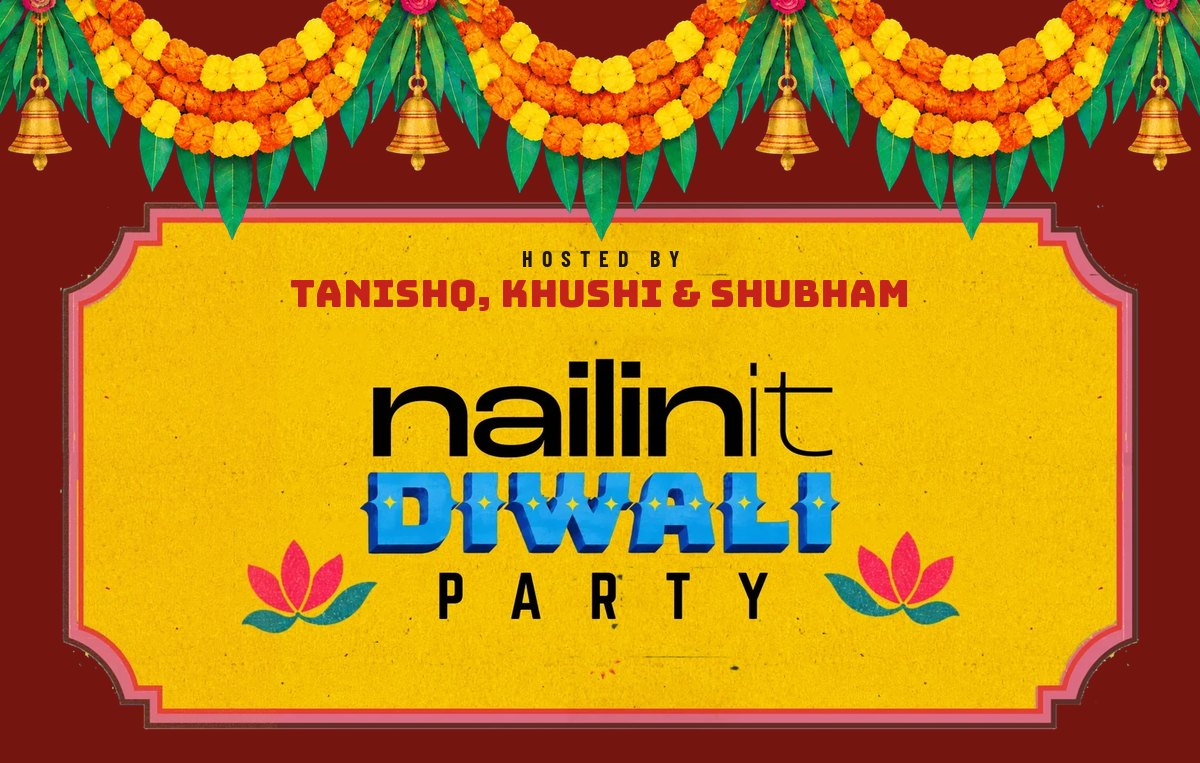
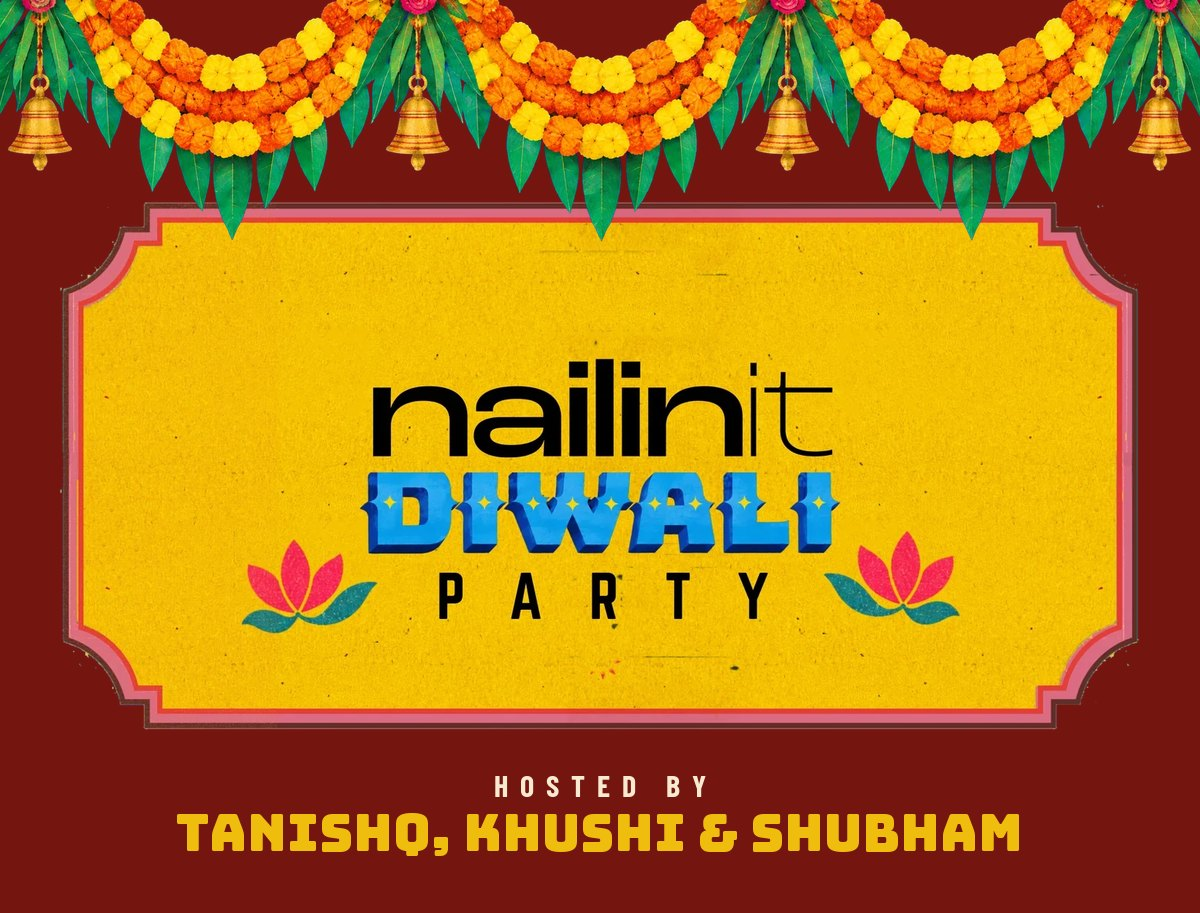
diwali: host links (?h=), party hosted-by under the ticket, email in site fonts + edge-to-edge, Pages cache headers

diff --git a/diwali/app.js b/diwali/app.js
@@ -23,6 +23,8 @@ const qs = new URLSearchParams(location.search);
 // ?to=Riya&k=<check>                                     → older links, still honoured
 const nice = v => String(v || '').trim().replace(/\s+/g, ' ').slice(0, 32).replace(/(^|\s)(\p{Ll})/gu, (m, a, b) => a + b.toUpperCase());
 const INV = (qs.get('inv') || '').trim();
+// ?h=tanishq → which host's link this is; remembered so later visits still count for them
+const HOST = (() => { const h = (qs.get('h') || '').toLowerCase().replace(/[^a-z]/g, '').slice(0, 20); if (h) store.set('mkd:h', h); return h || store.get('mkd:h') || ''; })();
 const KEY = (INV ? INV.slice(0, 5) : (qs.get('k') || '')).trim().toLowerCase();
 const SEALED = INV.length > 5 ? INV.slice(5) : '';
 let NAME = nice(qs.get('name') || qs.get('to'));            // full name: used for tracking / sheet rows
@@ -121,8 +123,10 @@ function layout() {
 
   // the AAO poster: starts inside the envelope, grows into the hero
   C2.w = EB.w * .86; C2.h = C2.w / POSTER_AR;
-  C2.fh = Math.min(vh * .5, (vw * .94) / POSTER_AR, 460); C2.fs = C2.fh / C2.h;
-  C2.fy = clamp(vh * .45, C2.fh / 2 + 84, vh - C2.fh / 2 - 120);
+  // party.nailin.it adds a "hosted by" line under the welcome, so its ticket sits a little smaller and higher
+  const host = window.SITE === 'party';
+  C2.fh = Math.min(vh * (host ? .44 : .5), (vw * .94) / POSTER_AR, 460); C2.fs = C2.fh / C2.h;
+  C2.fy = clamp(vh * (host ? .39 : .45), C2.fh / 2 + 80, vh - C2.fh / 2 - (host ? 215 : 120));
   css(card, '--cw', C2.w + 'px'); css(card, '--ch', C2.h + 'px');
   css(nameEl, '--ny', (C2.fy + C2.fh / 2 + 20) + 'px');
 
@@ -632,7 +636,7 @@ function track(event, extra = {}) {
   if (event === 'play' || event === 'wall') post(R.gamesForm, R.gamesFields, { ...who, type: event === 'wall' ? 'pinned to wall' : 'played',
     game: ({ tota: 'tota jyotish', gubbara: 'balloon shoot', chhalla: 'ring toss', draw: 'lucky draw' })[extra.rsvp] || extra.rsvp || '', result: extra.link || '', details: extra.device || '' });
   // our own database (admin dashboard + wall): plain-text beacon, no CORS preflight
-  const api = { event, name: NAME || '', rsvp: event === 'rsvp' ? extra.rsvp : '',
+  const api = { event, h: HOST, name: NAME || '', rsvp: event === 'rsvp' ? extra.rsvp : '',
     game: (event === 'wall' || event === 'play') ? extra.rsvp : '', title: extra.link || '', text: extra.device || '' };
   try { const b = new Blob([JSON.stringify(api)], { type: 'text/plain' }); navigator.sendBeacon ? navigator.sendBeacon(API_BASE + '/api/track', b) : fetch(API_BASE + '/api/track', { method: 'POST', body: b, keepalive: true }); } catch (e) {}
 }
@@ -677,7 +681,7 @@ rsvpForm.addEventListener('submit', async e => {
   if (err) { $('#apErr').textContent = err; buzz(20); return; }
   const btn = $('#apSend'); btn.disabled = true; btn.textContent = 'sending…'; $('#apErr').textContent = '';
   try {
-    const r = await fetch(API_BASE + '/api/apply', { method: 'POST', body: JSON.stringify({ name, phone, email }) });
+    const r = await fetch(API_BASE + '/api/apply', { method: 'POST', body: JSON.stringify({ name, phone, email, h: HOST }) });
     const d = await r.json();
     if (!d.ok) throw new Error(d.error || 'x');
     store.set(RKEY, d.status); store.set(RKEY + ':email', email); store.set(RKEY + ':phone', phone);

diff --git a/diwali/index.html b/diwali/index.html
@@ -22,7 +22,7 @@ window.CARD = SITE === 'party' ? 'assets/invite_card_host.webp' : 'assets/invite
 <link rel="preconnect" href="https://fonts.googleapis.com">
 <link rel="preconnect" href="https://fonts.gstatic.com" crossorigin>
 <link href="https://fonts.googleapis.com/css2?family=Bakbak+One&family=Bungee&family=Teko:wght@400;500;600&family=Barlow:wght@500;600;700&family=Barlow+Condensed:wght@500;600;700&family=Palanquin+Dark:wght@400;600;700&display=swap" rel="stylesheet">
-<link rel="stylesheet" href="style.css?v=1792958534">
+<link rel="stylesheet" href="style.css?v=1792998844">
 <style>
 /* loader: inline so it paints before anything else arrives */
 #ldr { position: fixed; inset: 0; z-index: 100; display: grid; place-items: center; background: radial-gradient(90% 70% at 50% 45%, #3a0a06 0%, #1a0503 70%, #0e0302 100%); color: #f7e6c8; transition: opacity .6s ease, visibility 0s linear .6s; }
@@ -90,8 +90,8 @@ window.CARD = SITE === 'party' ? 'assets/invite_card_host.webp' : 'assets/invite
 
 
     <!-- the invite inside the envelope: the deck's AAO poster -->
-    <div id="card" class="card" aria-hidden="true"><img id="cardImg" alt="DOT presents nailinit Diwali Party"><script>document.getElementById('cardImg').src = CARD; if (SITE === 'party') document.getElementById('cardImg').alt = 'nailinit Diwali Party, hosted by Tanishq, Khushi and Shubham';</script><span class="card-pb card-host" aria-hidden="true">hosted by<b>Tanishq, Khushi &amp; Shubham</b></span><i class="card-foil f-gold"></i><i class="card-foil f-blue"></i><i class="card-foil f-ink"></i><i class="card-sheen"></i></div>
-    <div id="cardname" class="cardname"><span class="foil" data-name>dost</span>... swagat <small>(with swag)</small></div>
+    <div id="card" class="card" aria-hidden="true"><img id="cardImg" alt="DOT presents nailinit Diwali Party"><script>document.getElementById('cardImg').src = CARD; if (SITE === 'party') document.getElementById('cardImg').alt = 'nailinit Diwali Party, hosted by Tanishq, Khushi and Shubham';</script><i class="card-foil f-gold"></i><i class="card-foil f-blue"></i><i class="card-foil f-ink"></i><i class="card-sheen"></i></div>
+    <div id="cardname" class="cardname"><span class="foil" data-name>dost</span>... swagat <small>(with swag)</small><em class="host-line">hosted by <b>Tanishq, Khushi &amp; Shubham</b></em></div>
 
     <canvas id="env" aria-label="Your envelope"></canvas>
 
@@ -320,9 +320,9 @@ window.CARD = SITE === 'party' ? 'assets/invite_card_host.webp' : 'assets/invite
   <button class="mx-pill" id="mxPlay" type="button" aria-label="Pause music"><span class="mx-eq" aria-hidden="true"><i></i><i></i><i></i><i></i></span><b id="mxTitle">mohalla diwali mix</b><span class="mx-ic" id="mxIc">❚❚</span></button>
   <a class="mx-link" id="mxLink" href="#" target="_blank" rel="noopener" aria-label="Open the playlist on YouTube">↗</a>
 </div>
-<script src="config.js?v=1792958534"></script>
-<script src="lib.js?v=1792958534"></script>
-<script src="app.js?v=1792958534"></script>
-<script src="games.js?v=1792958534"></script>
+<script src="config.js?v=1792998844"></script>
+<script src="lib.js?v=1792998844"></script>
+<script src="app.js?v=1792998844"></script>
+<script src="games.js?v=1792998844"></script>
 </body>
 </html>

diff --git a/diwali/style.css b/diwali/style.css
@@ -1383,8 +1383,11 @@ html, body { overscroll-behavior-x: none; }
 
 /* ═════════ two invites: DOT presents (diwali.nailin.it) / hosted by (party.nailin.it) ═════════ */
 .card-host { display: none; }
-[data-site="party"] .card-host { display: flex; flex-direction: column; align-items: center; gap: .9cqw; top: 9.5% !important; font: 600 1.9cqw/1 var(--sans) !important; letter-spacing: .42em !important; text-transform: uppercase; color: var(--ink); }
-[data-site="party"] .card-host b { font: 400 3.5cqw/1 var(--title), var(--display) !important; letter-spacing: .02em !important; color: var(--red) !important; text-transform: none; }
+/* party.nailin.it: hosted by sits under the ticket with the welcome line (the card itself stays clean) */
+.host-line { display: none; }
+[data-site="party"] .cardname small { display: none; }
+[data-site="party"] .host-line { display: block; margin-top: 8px; font: 600 clamp(11px, 1.5vw, 14px)/1.3 var(--cond); font-style: normal; letter-spacing: .3em; text-transform: uppercase; color: var(--cream); text-shadow: none; }
+[data-site="party"] .host-line b { display: block; margin-top: 4px; font: 400 clamp(15px, 2.4vw, 22px)/1.1 var(--title); letter-spacing: .02em; color: var(--yellow); text-transform: none; }
 
 /* ═════════ postcard: apply for a pass ═════════ */
 .rsvp-form { display: block; text-align: center; }

diff --git a/diwali/make.html b/diwali/make.html
@@ -58,8 +58,8 @@
     <table id="tbl" hidden><thead><tr><th>Name</th><th>Link</th><th></th></tr></thead><tbody></tbody></table>
   </section>
 </main>
-<script src="config.js?v=1792958534"></script>
-<script src="lib.js?v=1792958534"></script>
+<script src="config.js?v=1792998844"></script>
+<script src="lib.js?v=1792998844"></script>
 <script>
 (() => {
   const $ = s => document.querySelector(s);
